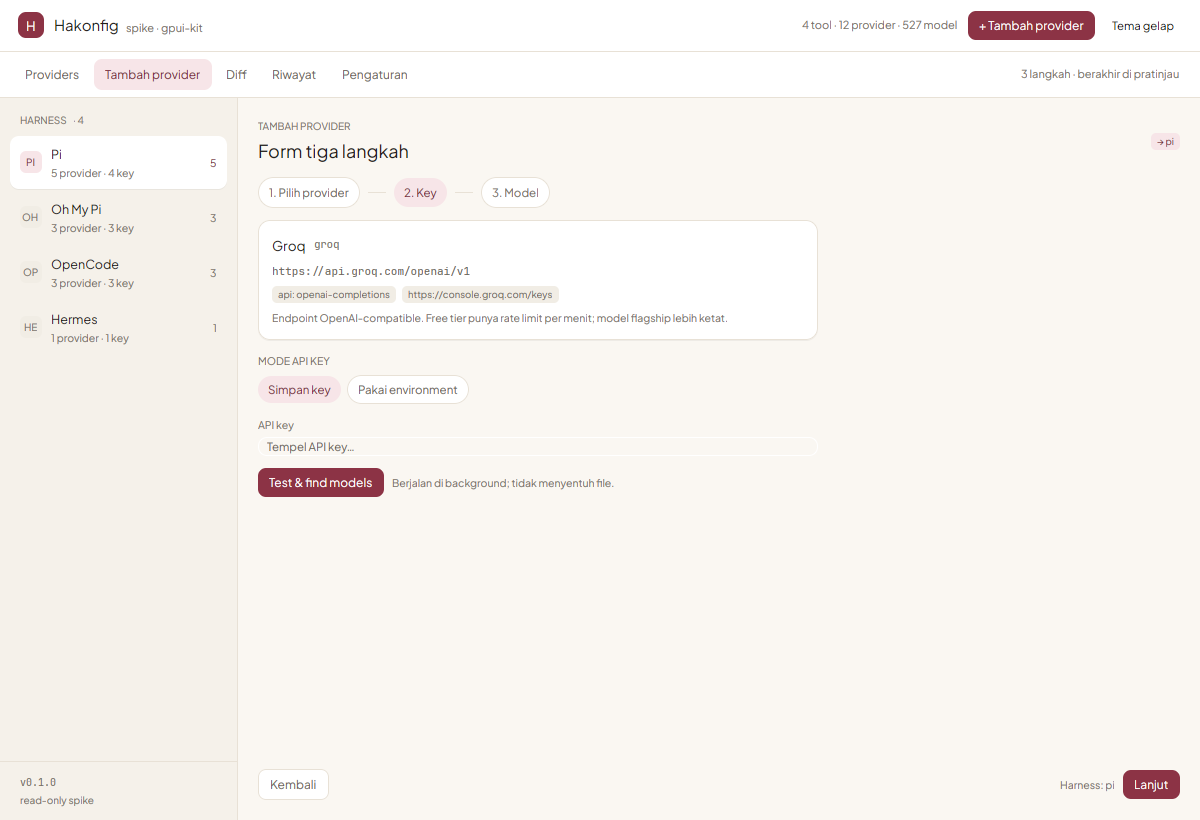
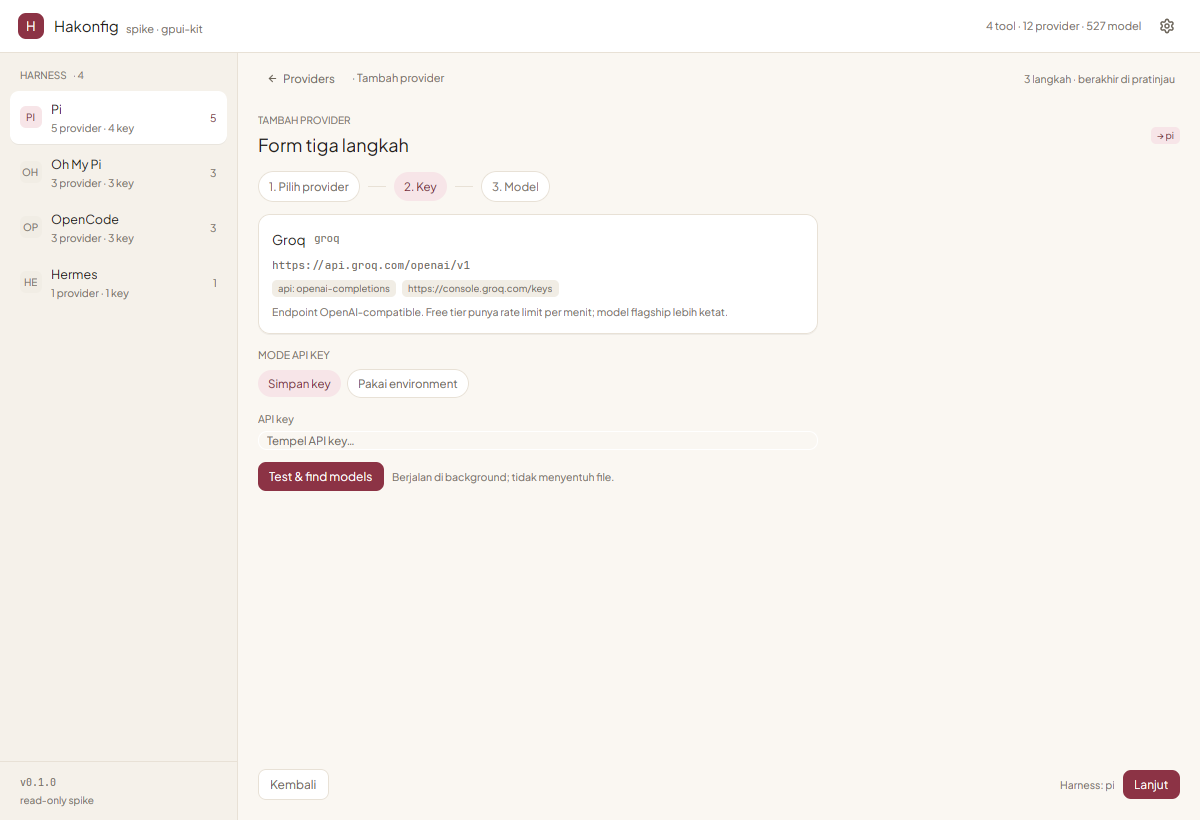
navigasi: aksi pindah ke kotak provider, top bar tinggal ikon gear

diff --git a/spike/gpui-kit/src/app.rs b/spike/gpui-kit/src/app.rs
@@ -5,14 +5,13 @@ use std::sync::OnceLock;
 use std::time::Instant;
 
 use gpui_kit::component::{
-    Sizable,
-    button::Button,
     h_flex,
     input::{InputEvent, InputState},
     notification::Notification,
     v_flex,
     WindowExt as _,
 };
+use gpui_kit::assets::IconName;
 use gpui_kit::prelude::*;
 use gpui_kit::*;
 use hakonfig_core::engine::model::{Notice, ProviderSummary};
@@ -40,14 +39,6 @@ pub enum Nav {
 }
 
 impl Nav {
-    pub const ALL: [Nav; 5] = [
-        Nav::Providers,
-        Nav::Add,
-        Nav::Diff,
-        Nav::History,
-        Nav::Settings,
-    ];
-
     /// Label tab. Layar dan harness sengaja dipisah: tab di atas, harness di
     /// sidebar kiri — dua daftar di kolom yang sama bikin bingung.
     pub fn label(self) -> &'static str {
@@ -60,7 +51,8 @@ impl Nav {
         }
     }
 
-    fn slug(self) -> &'static str {
+    #[allow(dead_code)] // dipakai view lain untuk id elemen
+    pub fn slug(self) -> &'static str {
         match self {
             Nav::Providers => "providers",
             Nav::Add => "add",
@@ -313,61 +305,67 @@ impl Render for App {
             .bg(p.canvas)
             .text_color(p.ink)
             .child(self.topbar(&p, cx))
-            .child(self.nav_tabs(&p, cx))
             .child(
                 h_flex()
                     .flex_1()
                     .min_h_0()
                     .items_stretch()
                     .child(self.sidebar(&p, cx))
-                    .child(body),
+                    .child(
+                        v_flex()
+                            .flex_1()
+                            .min_w_0()
+                            .min_h_0()
+                            .when(self.nav != Nav::Providers, |s| {
+                                s.child(self.back_bar(&p, cx))
+                            })
+                            .child(body),
+                    ),
             )
     }
 }
 
 impl App {
-    /// Navigasi layar: satu baris tab di bawah top bar, bukan di sidebar.
-    /// Sidebar dipakai khusus untuk memilih harness.
-    fn nav_tabs(&self, p: &Palette, cx: &mut Context<Self>) -> impl IntoElement {
-        let mut bar = h_flex()
+    /// Layar selain Providers dibuka dari kotak aksi di layar Providers atau
+    /// dari ikon cog (Pengaturan), jadi jalan pulangnya harus selalu ada.
+    fn back_bar(&self, p: &Palette, cx: &mut Context<Self>) -> impl IntoElement {
+        h_flex()
             .flex_shrink_0()
-            .px(px(14.))
-            .py(px(7.))
-            .gap(px(3.))
+            .px(px(20.))
+            .pt(px(12.))
+            .gap(px(8.))
             .items_center()
-            .bg(p.surface)
-            .border_b_1()
-            .border_color(p.line);
-        for nav in Nav::ALL {
-            let active = self.nav == nav;
-            bar = bar.child(
+            .child(
                 h_flex()
-                    .id(ElementId::Name(format!("tab-{}", nav.slug()).into()))
-                    .px(px(11.))
-                    .py(px(6.))
-                    .rounded(px(8.))
-                    .text_size(px(12.))
-                    .items_center()
-                    .when(active, |s| {
-                        s.bg(p.brand_soft)
-                            .text_color(p.brand_text)
-                            .font_weight(FontWeight::SEMIBOLD)
-                    })
-                    .when(!active, |s| {
-                        s.text_color(p.ink_secondary).hover(|s| s.bg(p.canvas))
-                    })
-                    .child(nav.label())
-                    .on_click(cx.listener(move |this, _, _, cx| this.set_nav(nav, cx))),
-            );
-        }
-        bar.child(div().flex_1()).child(
-            div()
-                .pr(px(6.))
-                .text_size(px(11.))
-                .text_color(p.ink_muted)
-                .child(active_hint(self.nav)),
-        )
+                    .id("back-providers")
+                    .gap(px(5.))
+                    .px(px(9.))
+                    .py(px(4.))
+                    .rounded(px(7.))
+                    .cursor_pointer()
+                    .text_size(px(11.5))
+                    .text_color(p.ink_secondary)
+                    .hover(|s| s.bg(p.surface_muted).text_color(p.ink))
+                    .child(IconName::ArrowLeft)
+                    .child("Providers")
+                    .on_click(cx.listener(|this, _, _, cx| this.set_nav(Nav::Providers, cx))),
+            )
+            .child(
+                div()
+                    .text_size(px(11.))
+                    .text_color(p.ink_muted)
+                    .child(format!("· {}", self.nav.label())),
+            )
+            .child(div().flex_1())
+            .child(
+                div()
+                    .pr(px(4.))
+                    .text_size(px(10.5))
+                    .text_color(p.ink_muted)
+                    .child(active_hint(self.nav)),
+            )
     }
+
     fn topbar(&self, p: &Palette, cx: &mut Context<Self>) -> impl IntoElement {
         h_flex()
             .flex_shrink_0()
@@ -421,23 +419,24 @@ impl App {
                     )),
             )
             .child(
-                palette::brand_button(p, "add", "+ Tambah provider").on_click(cx.listener(
-                    |this, _, _, cx| this.set_nav(Nav::Add, cx),
-                )),
-            )
-            .child(
-                Button::new("theme")
-                    .small()
-                    .label(if palette::dark(cx) {
-                        "Tema terang"
+                div()
+                    .id("open-settings")
+                    .flex()
+                    .items_center()
+                    .justify_center()
+                    .size(px(30.))
+                    .rounded(px(8.))
+                    .cursor_pointer()
+                    .text_size(px(16.))
+                    .text_color(if self.nav == Nav::Settings {
+                        p.brand_text
                     } else {
-                        "Tema gelap"
+                        p.ink_secondary
                     })
-                    .on_click(cx.listener(|this, _, _, cx| {
-                        palette::toggle_dark(cx);
-                        this.sync_views(cx);
-                        cx.notify();
-                    })),
+                    .when(self.nav == Nav::Settings, |s| s.bg(p.brand_soft))
+                    .when(self.nav != Nav::Settings, |s| s.hover(|s| s.bg(p.canvas)))
+                    .child(IconName::Settings)
+                    .on_click(cx.listener(|this, _, _, cx| this.set_nav(Nav::Settings, cx))),
             )
     }
 

diff --git a/spike/gpui-kit/src/views/providers.rs b/spike/gpui-kit/src/views/providers.rs
@@ -11,12 +11,13 @@ use gpui_kit::component::{
     v_flex,
     WindowExt as _,
 };
+use gpui_kit::assets::IconName;
 use gpui_kit::prelude::*;
 use gpui_kit::*;
 use hakonfig_core::engine::model::ProviderSummary;
 
-use crate::app::App;
 use crate::data::{monogram, HarnessEntry};
+use crate::app::{App, Nav};
 use crate::palette::{self, Palette};
 
 /// Filter cepat di atas grid provider.
@@ -84,6 +85,7 @@ pub fn render(app: &App, p: &Palette, cx: &mut Context<App>) -> impl IntoElement
     }
 
     column = column.child(config_files_card(entry, p, cx));
+    column = column.child(actions_card(app, p, cx));
 
     if !app.notices.is_empty() {
         let mut list = v_flex().gap(px(4.));
@@ -302,6 +304,98 @@ pub fn render(app: &App, p: &Palette, cx: &mut Context<App>) -> impl IntoElement
                 .overflow_y_scroll()
                 .child(column),
         )
+}
+
+/// Kotak aksi: tiga layar lain dibuka dari sini, bukan dari sidebar atau tab
+/// di atas. Sidebar tetap khusus memilih harness.
+fn actions_card(_app: &App, p: &Palette, cx: &mut Context<App>) -> impl IntoElement {
+    let rows: [(Nav, IconName, &'static str, &'static str); 3] = [
+        (
+            Nav::Add,
+            IconName::Plus,
+            "Tambah provider",
+            "preset → key → model → pratinjau diff",
+        ),
+        (
+            Nav::Diff,
+            IconName::FileText,
+            "Diff",
+            "pratinjau perubahan per berkas, read-only",
+        ),
+        (
+            Nav::History,
+            IconName::Undo,
+            "Riwayat",
+            "daftar backup config beserta waktunya",
+        ),
+    ];
+
+    let mut card = v_flex()
+        .gap(px(2.))
+        .p(px(8.))
+        .rounded(px(12.))
+        .bg(p.surface)
+        .border_1()
+        .border_color(p.line)
+        .child(
+            div()
+                .px(px(8.))
+                .pt(px(4.))
+                .pb(px(6.))
+                .text_size(px(10.))
+                .font_weight(FontWeight::SEMIBOLD)
+                .text_color(p.ink_muted)
+                .child("AKSI"),
+        );
+
+    for (nav, icon, label, hint) in rows {
+        card = card.child(
+            h_flex()
+                .id(ElementId::Name(format!("act-{}", nav.label()).into()))
+                .gap(px(9.))
+                .px(px(8.))
+                .py(px(7.))
+                .rounded(px(9.))
+                .items_center()
+                .cursor_pointer()
+                .hover(|s| s.bg(p.canvas))
+                .child(
+                    div()
+                        .flex()
+                        .items_center()
+                        .justify_center()
+                        .size(px(24.))
+                        .flex_shrink_0()
+                        .rounded(px(7.))
+                        .bg(p.brand_soft)
+                        .text_color(p.brand_text)
+                        .text_size(px(13.))
+                        .child(icon),
+                )
+                .child(
+                    v_flex()
+                        .flex_1()
+                        .min_w_0()
+                        .child(div().text_size(px(12.5)).child(label))
+                        .child(
+                            div()
+                                .truncate()
+                                .text_size(px(10.5))
+                                .text_color(p.ink_muted)
+                                .child(hint),
+                        ),
+                )
+                .child(
+                    div()
+                        .text_size(px(12.))
+                        .text_color(p.ink_muted)
+                        .child("›"),
+                )
+                .on_click(cx.listener(move |this, _, _, cx| this.set_nav(nav, cx))),
+        );
+    }
+
+    card
 }
 
 fn harness_header(

diff --git a/spike/gpui-kit/src/main.rs b/spike/gpui-kit/src/main.rs
@@ -40,8 +40,11 @@ fn main() {
                 Cow::Borrowed(FONT_MONO_BOLD as &[u8]),
             ])
             .ok();
-        cx.set_global(palette::UiPrefs::default());
-        palette::apply_theme(palette::Palette::light(), false, cx);
+        // SPIKE_DARK=1 memulai aplikasi dalam tema gelap: dipakai skrip
+        // screenshot, tidak mengubah perilaku normal.
+        let dark = std::env::var_os("SPIKE_DARK").is_some();
+        cx.set_global(palette::UiPrefs { dark });
+        palette::apply_theme(palette::Palette::of(dark), dark, cx);
 
         let bounds = WindowBounds::centered(size(px(1200.), px(820.)), cx);
         let options = WindowOptions {

diff --git a/spike/gpui-kit/src/palette.rs b/spike/gpui-kit/src/palette.rs
@@ -176,6 +176,7 @@ pub fn set_dark(want: bool, cx: &mut App) {
     apply_theme(Palette::of(want), want, cx);
 }
 
+#[allow(dead_code)] // seam: dipakai kalau toggle tema pindah ke top bar lagi
 pub fn toggle_dark(cx: &mut App) {
     let next = !dark(cx);
     set_dark(next, cx);

diff --git a/spike/gpui-kit/PROGRESS.md b/spike/gpui-kit/PROGRESS.md
@@ -162,6 +162,31 @@ xdotool search --name "spike gpui-kit" | tail -1 | xargs -I{} import -window {} 
   tema bawaan, bukan `ThemeColor` yang ditimpa — hasilnya hitam, bukan maroon.
   Solusi sementara: `palette::brand_button()`.
 
+### 2026-11-23 09:10 · repo · navigasi pindah ke kotak provider + ikon cog
+- Masalah (dari pengguna): dua daftar navigasi di kiri (layar + harness) membingungkan,
+  dan tombol "+ Tambah provider" / "Tema gelap" memakan ruang top bar.
+- Kerja: tab layar dihapus dari top bar. Top bar kini hanya brand, statistik, dan ikon
+  gear (`IconName::Settings`) yang membuka Pengaturan. Sidebar tinggal daftar harness.
+  Layar Tambah/Diff/Riwayat dibuka dari kotak **AKSI** di layar Providers; setiap
+  layar lain punya tombol `‹ Providers` di kiri atas (`App::back_bar`).
+- Seam baru: `SPIKE_DARK=1` memulai aplikasi dalam tema gelap (dipakai skrip
+  screenshot, bukan perilaku normal).
+- File: `src/app.rs`, `src/views/providers.rs`, `src/main.rs`, `src/palette.rs`,
+  `shot.sh`, `README.md`, `FEATURES.md`, `docs/*.png`, `docs/fresh-install/*.png`.
+- Verifikasi: `cargo build -j 6` hijau tanpa warning aplikasi. Klik terverifikasi
+  lewat delta piksel (bukan tebakan): cog → Pengaturan 4475 px, AKSI baris 1/2/3 →
+  4451/4394/4798 px, `‹ Providers` mengembalikan layar ke delta **0**.
+  Instalasi baru: `HOME=$(mktemp -d)` → 4 harness "belum terpasang", 0 provider,
+  0 model, config siap 188 ms, frame pertama 188 ms.
+- Temuan ikon: `gpui_kit::assets::Assets` hanya memuat ikon di
+  `default-icons.txt`, bukan 1.830 berkas di paketnya. `cog`, `file-diff`, dan
+  `clock` **tidak** ada di daftar itu sehingga svg-nya kosong tanpa error. Ikon
+  yang dipakai harus dari daftar tersebut: `settings` (gear), `file-text`,
+  `undo`, `plus`, `arrow-left`.
+- Catatan: langkah ke-4 form Tambah tidak lagi diambil sebagai screenshot terpisah
+  (delta hanya 634 px — tombol sama, layar tidak berpindah); dokumentasi memakai 3
+  langkah sampai pratinjau.
+
 ### 2026-11-22 23:55 · repo · spike dipecah jadi modul
 - Kerja: `src/{app,data,palette}.rs` + `src/views/{providers,add,diff,settings}.rs`.
   Placeholder untuk tiga layar disiapkan supaya bisa dikerjakan paralel.

diff --git a/spike/gpui-kit/FEATURES.md b/spike/gpui-kit/FEATURES.md
@@ -24,9 +24,11 @@ Aturan tetap untuk semua pekerjaan di spike ini:
 
 | ID | Fitur | Status | File |
 |----|-------|--------|------|
-| F0a | Top bar: brand, statistik tool/provider/model, tombol tema | [x] | `src/app.rs` |
+| F0a | Top bar: brand, statistik tool/provider/model, ikon cog → Pengaturan | [x] | `src/app.rs` |
 | F0b | Sidebar: daftar harness + jumlah provider/key, penanda aktif | [x] | `src/app.rs` |
-| F0c | Navigasi layar: Providers / Tambah provider / Diff / Riwayat / Pengaturan | [x] | `src/app.rs` |
+| F0c | Navigasi layar: kotak AKSI di Providers (Tambah/Diff/Riwayat) + cog (Pengaturan) + tombol kembali `‹ Providers` | [x] | `src/app.rs`, `src/views/providers.rs` |
+| F0e | Kotak AKSI: tiga baris berikon dengan judul + keterangan singkat, hover, klik membuka layar | [x] | `src/views/providers.rs` |
+| F0f | Tangkapan layar instalasi baru (HOME kosong) terang + gelap, lewat `./shot.sh --fresh` / `--dark` | [x] | `shot.sh`, `docs/fresh-install/` |
 | F0d | Font bundel (Plus Jakarta Sans, JetBrains Mono) + palet terang/gelap | [x] | `src/palette.rs` |
 | F0e | Load config di background supaya frame pertama < 200 ms | [x] | `src/app.rs` |
 

diff --git a/spike/gpui-kit/README.md b/spike/gpui-kit/README.md
@@ -12,10 +12,14 @@ Tujuannya menjawab dua pertanyaan dengan bukti, bukan opini:
 | | |
 |---|---|
 | ![Providers](docs/ui-light.png) | ![Tema gelap](docs/ui-dark.png) |
-| ![Diff](docs/ui-diff.png) | ![Pengaturan](docs/ui-settings.png) |
 | ![Tambah 1](docs/ui-add-1.png) | ![Tambah 2](docs/ui-add-2.png) |
-| ![Tambah 3](docs/ui-add-3.png) | ![Pratinjau](docs/ui-add-4.png) |
-| ![Riwayat](docs/ui-history.png) | ![Pengaturan gelap](docs/ui-settings-dark.png) |
+| ![Tambah 3](docs/ui-add-3.png) | ![Diff](docs/ui-diff.png) |
+| ![Riwayat](docs/ui-history.png) | ![Pengaturan](docs/ui-settings.png) |
+
+Tampilan instalasi baru (HOME kosong, belum ada config tool apa pun):
+`docs/fresh-install/` — `fresh-providers.png`, `fresh-add-1..3.png`,
+`fresh-diff.png`, `fresh-history.png`, `fresh-settings.png`, dan versi `-dark`
+dari semuanya. Dibuat ulang dengan `./shot.sh --fresh` (tambah `--dark`).
 
 ## Jalankan
 
